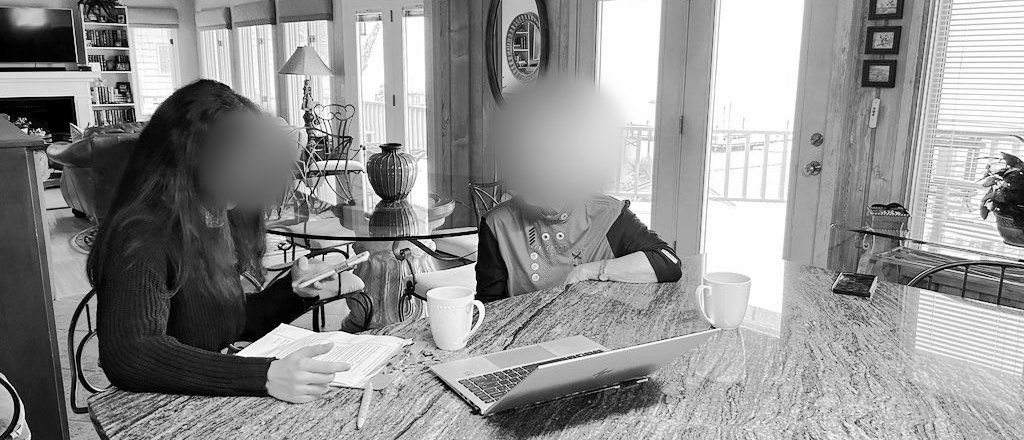
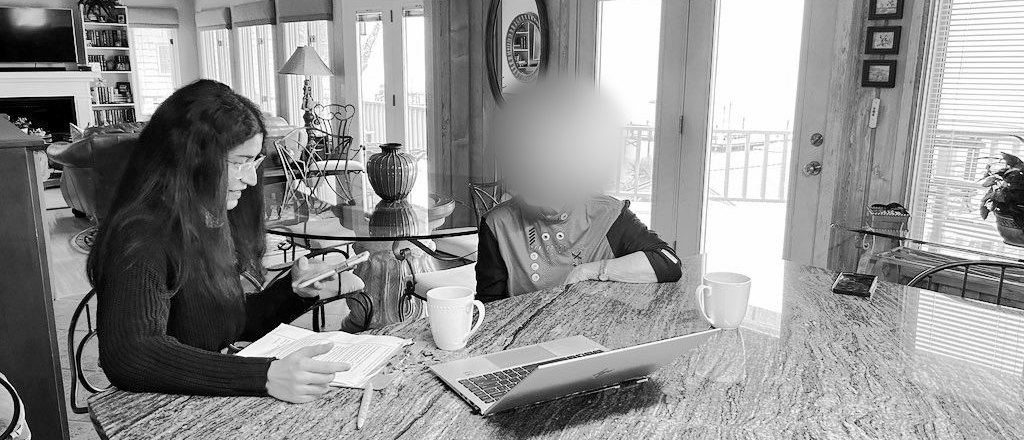
Draft: Health photo shows Shreya unblurred with a Shreya callout
Claude-Session: https://claude.ai/code/session_01Lm7r7dJX4Rp9GEpB2yc7Xt

Changed region(s): [[0.1875, 0.2364, 0.3125, 0.5023]]

diff --git a/projects/home-cleaning.html b/projects/home-cleaning.html
@@ -336,6 +336,9 @@ header.top .lede{margin:0;max-width:none}
 #hc-btn{margin:12px 0 40px}
 @media (prefers-reduced-motion: reduce){#hcfig *{animation-delay:0s!important;animation-duration:.01s!important}}
 :root{--accent:#5b6b4f}
+.hc-co .callout{left:26%;top:30%}
+.hc-co .callout text{fill:#1d1d1f;paint-order:stroke;stroke:#fff;stroke-width:4px;stroke-linejoin:round}
+.hc-co .callout path{stroke:#1d1d1f}
 </style>
 </head>
 <body>
@@ -644,7 +647,7 @@ header.top .lede{margin:0;max-width:none}
     <article class="disc" id="d3">
       <p class="dnum">03 · Health</p>
       <h3>Households managing a medical condition are a distinct, underserved segment.</h3>
-      <figure class="dimg"><img src="../images/cleaning-health.jpg?v=3" width="1024" height="440" alt="Shreya interviews a participant at her kitchen table" loading="lazy"><figcaption>In a participant’s home, led and moderated by Shreya</figcaption></figure>
+      <figure class="dimg dco hc-co"><svg class="callout" aria-hidden="true"><text x="34" y="-78">Shreya</text><path d="M40 -70 C 30 -52, 22 -34, 8 -10"/><path d="M2 -24 C 4 -17, 6 -13, 8 -10"/><path d="M8 -10 C 13 -13, 18 -16, 23 -17"/></svg><img src="../images/cleaning-health.jpg?v=4" width="1024" height="440" alt="Shreya interviews a participant at her kitchen table" loading="lazy"><figcaption>In a participant’s home, led and moderated by Shreya</figcaption></figure>
       <dl class="dsteps">
         <div><dt>Team believed</dt><dd>Design vacuums for general cleaning tasks.</dd></div>
         <div><dt>Research showed</dt><dd>Allergies and other health needs shaped how often people cleaned, what they cleaned, and what they bought. <b>52% of participants with a medical condition owned an air purifier.</b></dd></div>
